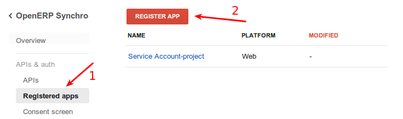
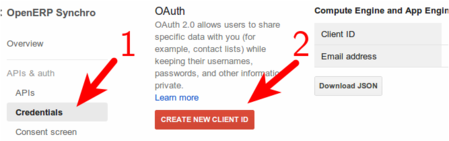
[IMP] Redo tuto to get api key, because Google have changed console UI during the dev

diff --git a/calendar/calendar.py b/calendar/calendar.py
@@ -242,12 +242,6 @@ class calendar_attendee(osv.osv):
                 the_mailmess = mail_pool.browse(cr,uid,mail_id,context=context).mail_message_id
                 mailmess_pool.write(cr,uid,[the_mailmess.id],vals,context=context)
                 mail_ids.append(mail_id)
-                
-                   
-# 
-#                 if not attendee.partner_id.opt_out:
-#                     if 'partner_to' in vals:
-#                         del vals['partner_to'] #hack between mail.mail and template.mail -> tde                    
                     
         if mail_ids:
             try:
@@ -568,8 +562,6 @@ class calendar_alarm_manager(osv.osv):
                 if LastFound:
                     for alert in LastFound:
                         self.do_mail_reminder(cr,uid,alert,context=context)                    
-                
-            #Purge all done
     
     def get_next_event(self,cr,uid,context=None):
         ajax_check_every_seconds = 300
@@ -627,31 +619,28 @@ class calendar_alarm_manager(osv.osv):
                      'declined':'red'                 
             }
             
-            for attendee in event.attendee_ids:            
+            for attendee in event.attendee_ids:
                 dummy,template_id = data_pool.get_object_reference(cr, uid, 'calendar', 'crm_email_template_meeting_reminder')
                 dummy,act_id = data_pool.get_object_reference(cr, uid, 'calendar', "view_crm_meeting_calendar")                
-                body = template_pool.browse(cr, uid, template_id, context=context).body_html
-                
-                #mail_from = tools.config.get('email_from',event.user_id.email)
+
                 if attendee.email:
-                    local_context['att_obj'] = attendee
+
                     local_context['color'] = color
                     local_context['action_id'] = self.pool.get('ir.actions.act_window').search(cr, uid, [('view_id','=',act_id)], context=context)[0]
                     local_context['dbname'] = cr.dbname
                     local_context['base_url'] = self.pool.get('ir.config_parameter').get_param(cr, uid, 'web.base.url', default='http://localhost:8069', context=context)
-                    vals = template_pool.generate_email(cr, uid, template_id, attendee.event_id.id, context=local_context)
+                    vals = template_pool.send_mail(cr, uid, template_id, attendee.id, context=local_context)
                     
+                    vals =  {}
+                    if ics_file:
+                        vals['attachment_ids'] = [(0,0,{'name': 'invitation.ics',
+                                                    'datas_fname': 'invitation.ics',
+                                                    'datas': str(ics_file).encode('base64')})]
                     vals['model'] = None #We don't want to have the mail in the tchatter while in queue!
-                    vals['auto_delete'] = True #We don't need mail after it has been sended !
-                    
-                    if (vals['email_to']== attendee.partner_id.email):
-                        vals['email_to'] = ''
-                        vals['recipient_ids'] = [(4,attendee.partner_id.id),] 
-                    
-                    if not attendee.partner_id.opt_out:
-                        if 'partner_to' in vals:
-                            del vals['partner_to'] #hack between mail.mail and template.mail -> tde
-                        mail_ids.append(mail_pool.create(cr, uid, vals, context=local_context))
+                    the_mailmess = mail_pool.browse(cr,uid,mail_id,context=context).mail_message_id
+                    mailmess_pool.write(cr,uid,[the_mailmess.id],vals,context=context)
+                    mail_ids.append(mail_id)
+
             if mail_ids:
                 try:
                     res =  mail_pool.send(cr, uid, mail_ids, context=local_context)

diff --git a/email_template/email_template.py b/email_template/email_template.py
@@ -416,13 +416,14 @@ class email_template(osv.osv):
         
         #Convert Partner_to (a string of ID) into recipient_ids'
         recipient_ids = []
-        if 'partner_to' in values and values['partner_to']:
-            partner_to = safe_eval(values['partner_to'])
-#             if not hasattr(partner_to, '__iter__'):
-#                 partner_to = [partner_to]
-            for partner_id in partner_to:  
-                recipient_ids.append((4,partner_id))
-            values['recipient_ids'] = recipient_ids
+        if 'partner_to' in values:
+            if values['partner_to']:
+                partner_to = safe_eval(values['partner_to'])
+                #  if not hasattr(partner_to, '__iter__'):
+                #      partner_to = [partner_to]
+                for partner_id in partner_to:  
+                    recipient_ids.append((4,partner_id))
+                values['recipient_ids'] = recipient_ids
             del values['partner_to']  
             
         attachment_ids = values.pop('attachment_ids', [])

diff --git a/google_account/google_account.py b/google_account/google_account.py
@@ -100,7 +100,7 @@ class google_service(osv.osv_memory):
             'client_id': client_id,
             'client_secret': client_secret,
             'grant_type' : 'authorization_code',
-            #'redirect_uri': base_url + '/google_account/authentication'
+            'redirect_uri': base_url + '/google_account/authentication'
         }
                 
         headers = {"content-type": "application/x-www-form-urlencoded"}

diff --git a/google_account/controllers/main.py b/google_account/controllers/main.py
@@ -21,7 +21,7 @@ class google_auth(http.Controller):
         
         registry = openerp.modules.registry.RegistryManager.get(dbname)
         with registry.cursor() as cr:
-            if kw.get('code'):
+            if kw.get('code',False):
                 registry.get('google.%s' % service).set_all_tokens(cr,request.session.uid,kw['code'])
                 return werkzeug.utils.redirect(url_return)
             
